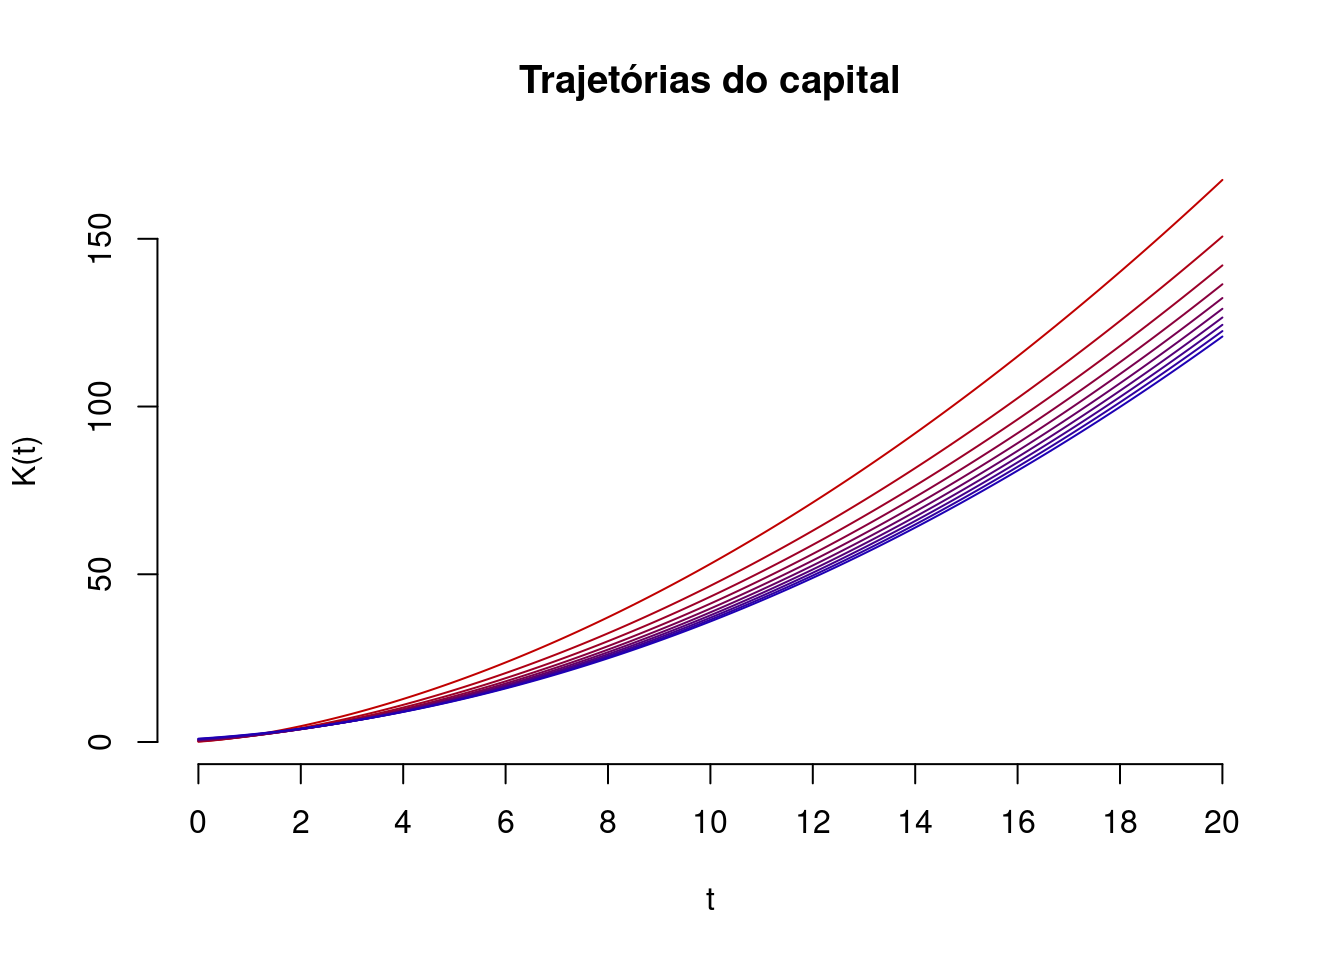
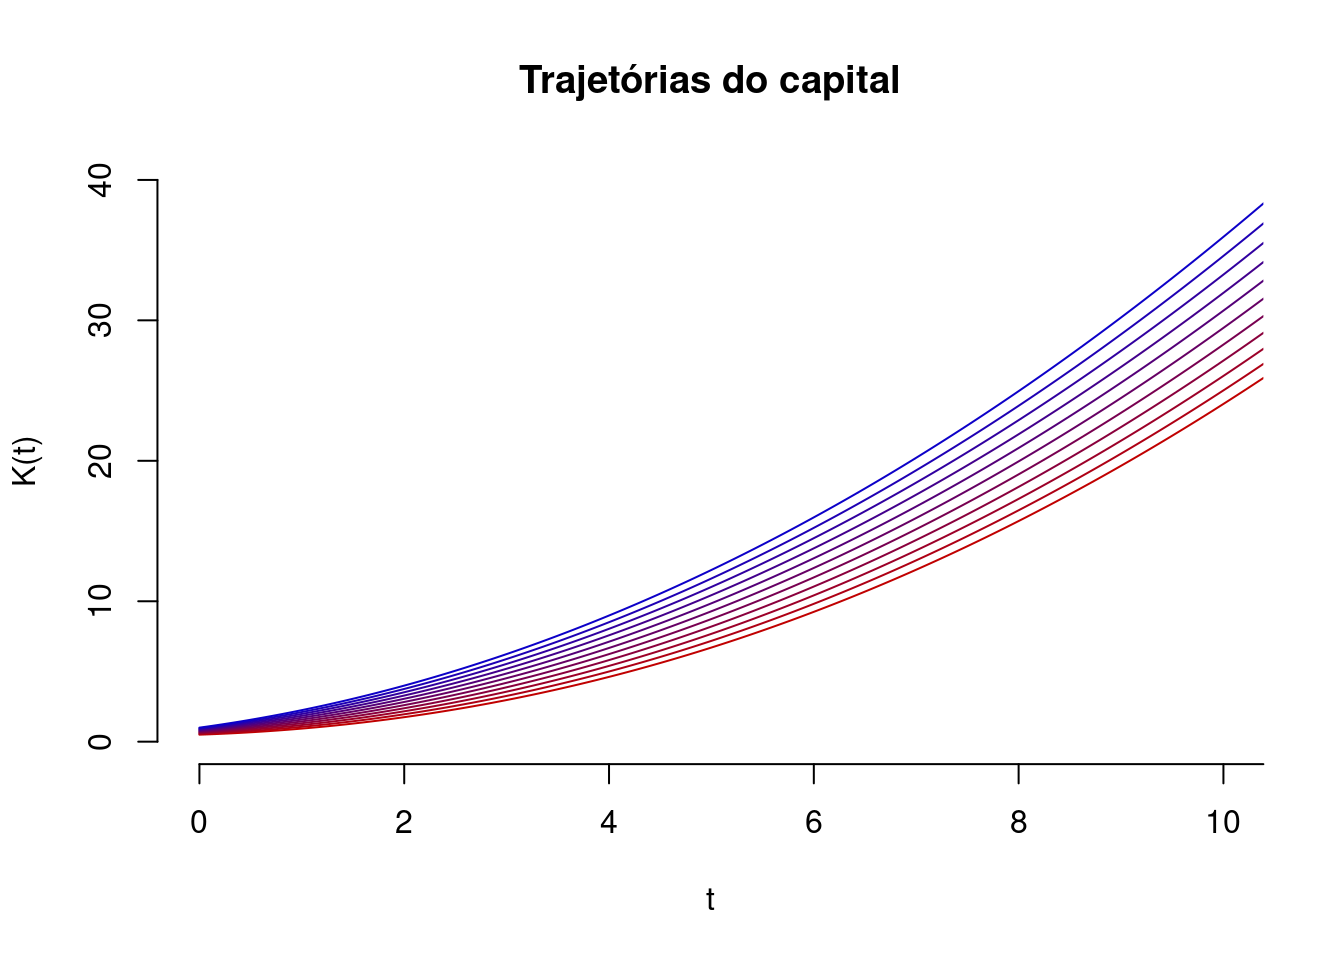
yx scale

diff --git a/2020/12/13/max-bem-estar/index.html b/2020/12/13/max-bem-estar/index.html
@@ -92,7 +92,7 @@
 <p>Primeiro definimos a função que calcula as variações <span class="math inline">\(dL\)</span> e <span class="math inline">\(dK\)</span> a partir dos valores instantâneos de <span class="math inline">\(L(t)\)</span> e <span class="math inline">\(K(t)\)</span>:</p>
 <pre class="r"><code>step &lt;- function(L, K){
   dL = ((1-L)*sqrt(L))/(2*sqrt(K))
-  dK = ((3L-1)*sqrt(K))/(2*sqrt(L))
+  dK = ((3*L-1)*sqrt(K))/(2*sqrt(L))
   return(c(dL, dK))
 }</code></pre>
 <p>Depois, podemos definir o processo iterativo de calcular as trajetórias <span class="math inline">\(L(t)\)</span> e <span class="math inline">\(K(t)\)</span>.</p>
@@ -114,7 +114,7 @@
 <p><img src="index_files/figure-html/simul%20L-1.png" width="672" /></p>
 <p>E, para <span class="math inline">\(K(t)\)</span>, fazemos o mesmo:</p>
 <p><img src="index_files/figure-html/simul%20K-1.png" width="672" /></p>
-<p>Podemos ver que estas soluções são bem comportadas de acordo com o que esperamos de funções que descrevem trajetórias de trabalho e de capital. Perceba que o trabalho (<span class="math inline">\(L(t)\)</span>) é sempre limitado superiormente por 1, como exigido pela teoria, enquanto que o capital (<span class="math inline">\(K(t)\)</span>) consegue crescer idenfinidamente.</p>
+<p>Podemos ver que estas soluções são bem comportadas de acordo com o que esperamos de funções que descrevem trajetórias de trabalho e de capital. Perceba que o trabalho (<span class="math inline">\(L(t)\)</span>) é sempre limitado superiormente por 1, como exigido pela teoria, enquanto que o capital (<span class="math inline">\(K(t)\)</span>) consegue crescer idenfinidamente..</p>
 </div>
 
     </div>
